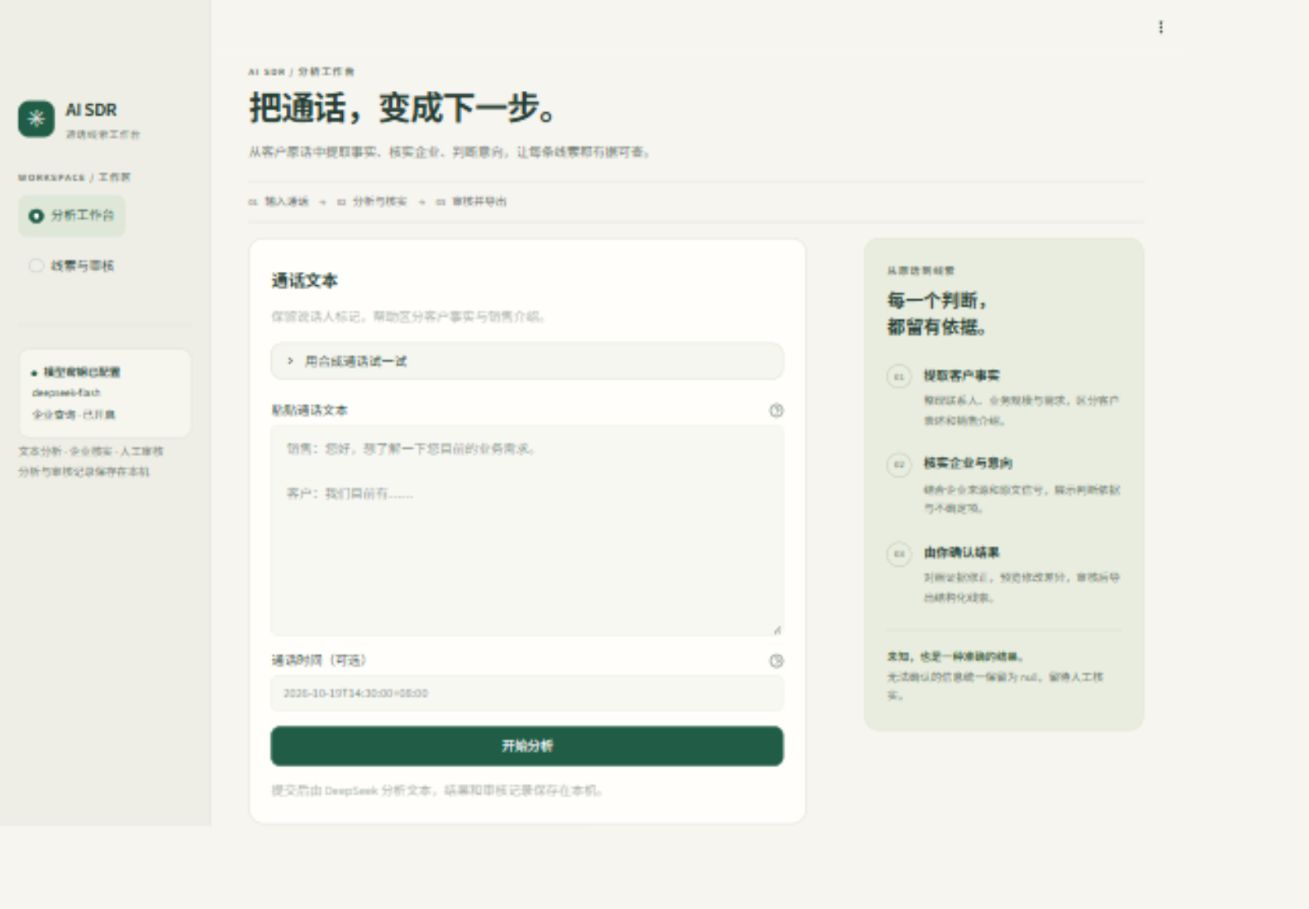
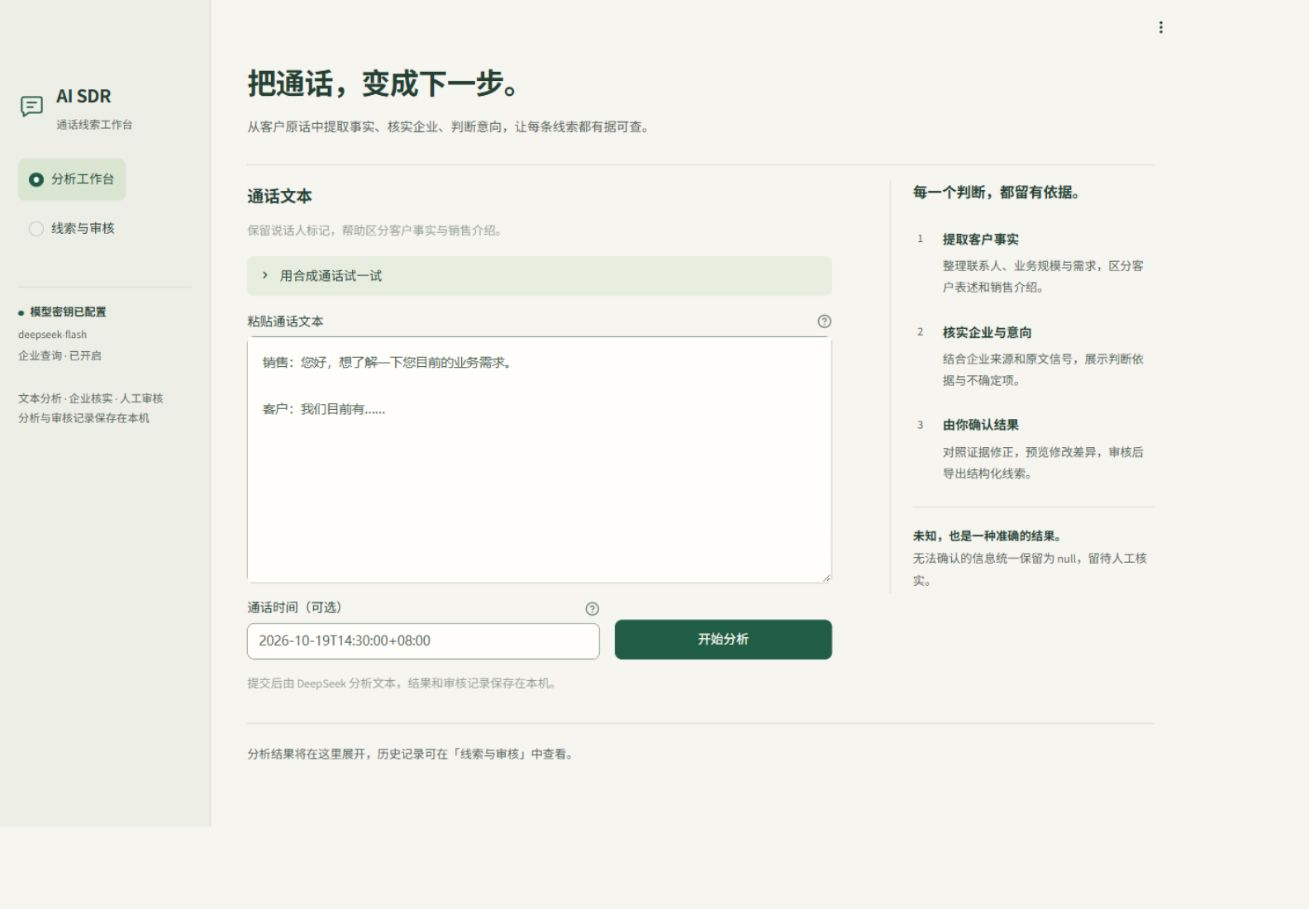
Polish SDR interface with Impeccable guidance

diff --git a/src/sdr_agent/styles.css b/src/sdr_agent/styles.css
@@ -1,128 +1,152 @@
-/* Local, self-contained theme. No external fonts or image requests. */
+/* Operate-mode refinement: local typography, semantic color, quiet surfaces. */
 :root {
-  --sdr-ink: #253c32;
-  --sdr-muted: #6b766e;
+  --sdr-ink: #243e32;
+  --sdr-muted: #526557;
   --sdr-green: #205c46;
-  --sdr-line: #dedfd5;
+  --sdr-hover: #174b38;
+  --sdr-active: #103c2b;
+  --sdr-canvas: #f6f5f0;
+  --sdr-sidebar: #edeee6;
   --sdr-paper: #fffefa;
-  --sdr-sage: #eaf0e5;
+  --sdr-sage: #e7eddf;
+  --sdr-line: #d6dbd0;
+  --sdr-control: #809183;
+  --sdr-radius: 12px;
+  --sdr-font: "Microsoft YaHei UI", "PingFang SC", "Noto Sans CJK SC", sans-serif;
 }
-.stApp { background: #f6f5f0; color: var(--sdr-ink); }
-.block-container { max-width: 1392px; padding: 2.8rem 2.6rem 4rem; }
-[data-testid="stHeader"] { background: #f6f5f0ed; }
+.stApp { background: var(--sdr-canvas); color: var(--sdr-ink); }
+.stApp, .stApp input, .stApp textarea, .stApp button, .stApp select { font-family: var(--sdr-font); }
+.stApp ::selection { background: #cdddc1; color: #173b2b; }
+.stApp input, .stApp textarea { caret-color: var(--sdr-green); }
+.stApp a { text-underline-offset: .2em; }
+.block-container { max-width: 1392px; padding: 3.2rem 2.5rem 3rem; }
+[data-testid="stHeader"] { background: var(--sdr-canvas); }
 [data-testid="stAppDeployButton"] { display: none; }
-h1, h2, h3, h4, h5 { color: var(--sdr-ink); letter-spacing: -.035em; }
-h1 { font-size: clamp(1.65rem, 3vw, 2.3rem) !important; font-weight: 650 !important; }
-h3 { font-size: 1.15rem !important; }
-h5 { font-size: 1rem !important; padding-top: .8rem !important; }
+h1, h2, h3, h4, h5 { color: var(--sdr-ink); font-family: var(--sdr-font); letter-spacing: -.02em; }
+h1 { font-size: 2rem !important; font-weight: 650 !important; }
+h3 { font-size: 1.125rem !important; font-weight: 650 !important; }
+h5 { font-size: 1rem !important; padding-top: 1rem !important; }
 [data-testid="stCaptionContainer"] { color: var(--sdr-muted); }
-[data-testid="stSidebar"] { background: #eeeee6; border-right: 1px solid var(--sdr-line); }
-[data-testid="stSidebarContent"] { padding-top: 1.5rem; }
-[data-testid="stSidebar"] hr { border-color: var(--sdr-line); margin: 1.6rem 0; }
-.brand { display: flex; align-items: center; gap: 12px; padding: 4px 0 12px; }
-.brand-mark { display: grid; place-items: center; width: 40px; height: 40px; background: var(--sdr-green); border-radius: 12px; color: #f3f5e9; font-size: 25px; }
-.brand strong { font-size: 21px; font-weight: 650; letter-spacing: -.03em; }
-.brand small { display: block; margin-top: 2px; color: var(--sdr-muted); font-size: 11px; letter-spacing: .08em; }
-.nav-label, .eyebrow { color: var(--sdr-muted); font-size: 11px; font-weight: 650; letter-spacing: .15em; text-transform: uppercase; }
-.nav-label { margin: 18px 0 10px; }
-[data-testid="stSidebar"] [role="radiogroup"] { gap: 8px; }
-[data-testid="stSidebar"] [role="radiogroup"] label { margin: 0; padding: 12px; border-radius: 10px; transition: background .15s; }
-[data-testid="stSidebar"] [role="radiogroup"] label:has(input:checked) { background: #dfe7d8; color: #174f3a; font-weight: 650; }
-[data-testid="stSidebar"] [role="radiogroup"] label:hover { background: #e4e8dd; }
-.sidebar-note { font-size: 12px; line-height: 1.8; color: var(--sdr-muted); padding-top: 5px; }
-.sidebar-status { padding: 14px; background: #f6f6ef; border: 1px solid var(--sdr-line); border-radius: 12px; font-size: 12px; line-height: 1.9; overflow-wrap: anywhere; }
-.sidebar-status strong { font-weight: 600; }
+[data-testid="stCaptionContainer"] p { font-size: .8125rem; line-height: 1.7; }
+[data-testid="stSidebar"] { background: var(--sdr-sidebar); border-right: 1px solid var(--sdr-line); }
+[data-testid="stSidebarContent"] { padding-top: .5rem; }
+[data-testid="stSidebar"] hr { border-color: var(--sdr-line); margin: 1.5rem 0 1rem; }
+.brand { display: flex; align-items: center; gap: 12px; padding: 4px 0 28px; }
+.brand-mark { color: var(--sdr-green); flex-shrink: 0; }
+.brand strong { font-size: 1.375rem; font-weight: 650; letter-spacing: -.02em; }
+.brand small { display: block; margin-top: 4px; color: var(--sdr-muted); font-size: .75rem; }
+[data-testid="stSidebar"] [role="radiogroup"] { gap: 8px; width: 100%; }
+[data-testid="stSidebar"] [role="radiogroup"] label {
+  margin: 0; padding: 12px; min-height: 44px; width: 100%; box-sizing: border-box;
+  border-radius: 8px; transition: background-color 160ms ease-out;
+}
+[data-testid="stSidebar"] [role="radiogroup"] label:has(input:checked) { background: #dae5d2; color: #214c36; font-weight: 650; }
+[data-testid="stSidebar"] [role="radiogroup"] label:hover { background: #e0e6d8; }
+[data-testid="stSidebar"] [role="radiogroup"] label:focus-within { outline: 2px solid var(--sdr-green); outline-offset: 2px; }
+.sidebar-note { font-size: .75rem; line-height: 1.8; color: var(--sdr-muted); margin-top: 24px; }
+.sidebar-status { font-size: .75rem; line-height: 2; color: var(--sdr-muted); overflow-wrap: anywhere; }
+.sidebar-status strong { color: var(--sdr-ink); font-weight: 600; }
 .status-dot { display: inline-block; width: 6px; height: 6px; margin-right: 7px; border-radius: 50%; background: var(--sdr-green); }
-.page-heading { padding: 9px 0 18px; }
-.page-heading h1 { margin: 9px 0 10px; padding: 0; line-height: 1.35; }
-.page-heading p { margin: 0; color: var(--sdr-muted); font-size: 14px; line-height: 1.8; }
-.workflow-strip { display: flex; align-items: center; gap: 12px; margin: 0 0 18px; padding: 12px 0; border-top: 1px solid var(--sdr-line); border-bottom: 1px solid var(--sdr-line); color: #526556; font-size: 12px; }
-.workflow-strip b { font-size: 10px; color: #7d8978; margin-right: 5px; font-weight: 500; }
-.workflow-strip .arrow { color: #99a48f; }
-[data-testid="stVerticalBlockBorderWrapper"] { border-color: var(--sdr-line); border-radius: 16px; }
-.st-key-input_card { background: var(--sdr-paper); padding: 24px !important; border: 1px solid var(--sdr-line) !important; border-radius: 16px; }
-.st-key-input_card [data-testid="stForm"] { border: 0; padding: 0; }
-.st-key-input_card [data-testid="stExpander"] { margin: 2px 0 6px; }
-.st-key-input_card [data-testid="stExpander"] details { background: #f5f6ef; }
-[data-testid="stTextInput"] input, [data-testid="stTextArea"] textarea { background: #f8f8f3; font-size: 14px; line-height: 1.75; }
-[data-testid="stTextArea"] textarea { padding: 14px 16px; }
-[data-testid="stTextInput"] [data-baseweb="input"], [data-testid="stTextArea"] [data-baseweb="textarea"] { border: 1px solid #dce1d6; border-radius: 10px; }
-[data-testid="stTextInput"] [data-baseweb="input"]:focus-within, [data-testid="stTextArea"] [data-baseweb="textarea"]:focus-within { border-color: var(--sdr-green); box-shadow: 0 0 0 2px #205c4614; }
-[data-testid="stSelectbox"] [data-baseweb="select"] > div { border-radius: 10px; }
-[data-testid="stBaseButton-primary"], [data-testid="stBaseButton-primaryFormSubmit"] { border-radius: 10px; min-height: 44px; background: var(--sdr-green); border-color: var(--sdr-green); font-weight: 600; }
-[data-testid="stBaseButton-secondary"], [data-testid="stBaseButton-secondaryFormSubmit"], [data-testid="stDownloadButton"] button { border-radius: 10px; border-color: var(--sdr-line); background: var(--sdr-paper); }
-button:focus-visible, a:focus-visible { outline: 3px solid #8cae86 !important; outline-offset: 3px; }
-.guide-card { border-radius: 16px; padding: 26px 24px; background: #e9eddf; border: 1px solid #dce3d2; }
-.guide-card h3 { margin: 9px 0 24px; padding: 0; font-size: 20px !important; line-height: 1.5; }
-.guide-step { display: flex; gap: 13px; margin-bottom: 24px; }
-.step-number { color: #52734e; border: 1px solid #b9c7ad; border-radius: 50%; width: 27px; height: 27px; flex-shrink: 0; display: grid; place-items: center; font-size: 11px; margin-top: 1px; }
-.guide-step strong { font-size: 14px; font-weight: 600; }
-.guide-step p { color: #63715d; font-size: 12px; line-height: 1.8; margin: 5px 0 0; }
-.guide-note { margin-top: 6px; padding-top: 18px; border-top: 1px solid #cfd9c4; color: #60705b; font-size: 12px; line-height: 1.8; }
-.guide-note strong { color: #3e5e3c; }
-.empty-note { text-align: center; color: var(--sdr-muted); font-size: 12px; padding: 26px 12px; }
-.empty-note span { color: var(--sdr-green); margin-right: 7px; }
-[data-testid="stMetric"] { background: var(--sdr-paper); border: 1px solid var(--sdr-line); padding: 18px 22px; border-radius: 14px; }
+.page-heading { padding: 4px 0 28px; margin-bottom: 12px; border-bottom: 1px solid var(--sdr-line); }
+.page-heading h1 { margin: 0 0 12px; padding: 0; line-height: 1.4; text-wrap: balance; }
+.page-heading p { margin: 0; color: var(--sdr-muted); font-size: .875rem; line-height: 1.8; max-width: 70ch; }
+[data-testid="stVerticalBlockBorderWrapper"] { border-color: var(--sdr-line); border-radius: var(--sdr-radius); }
+.st-key-workbench_layout { container: sdr-workbench / inline-size; }
+.st-key-input_card { padding: 0 !important; }
+.st-key-input_card [data-testid="stForm"] { border: 0; padding: 0; background: transparent; }
+.st-key-input_card [data-testid="stExpander"] details { border: 0; background: var(--sdr-sage); }
+.st-key-input_card [data-testid="stExpander"] summary { min-height: 44px; }
+[data-testid="stTextInput"] input, [data-testid="stTextArea"] textarea { background: var(--sdr-paper); color: var(--sdr-ink); font-size: .875rem; line-height: 1.8; }
+[data-testid="stTextArea"] textarea { padding: 16px; }
+[data-testid="stTextInput"] input::placeholder, [data-testid="stTextArea"] textarea::placeholder { color: var(--sdr-muted); opacity: 1; }
+[data-testid="stTextInputRootElement"], [data-testid="stTextArea"] > div:has(> textarea) { border: 1px solid var(--sdr-control); border-radius: 8px; background: var(--sdr-paper); }
+[data-testid="stTextInputRootElement"]:focus-within,
+[data-testid="stTextArea"] > div:has(> textarea):focus-within { outline: 2px solid var(--sdr-green); outline-offset: 2px; border-color: var(--sdr-green); }
+[data-testid="stSelectbox"] [role="group"]:has(> [role="combobox"]) { border: 1px solid var(--sdr-control); border-radius: 8px; background: var(--sdr-paper); }
+[data-testid="stSelectbox"] [role="group"]:has(> [role="combobox"]):focus-within { outline: 2px solid var(--sdr-green); outline-offset: 2px; border-radius: 8px; }
+[data-testid="stBaseButton-primary"], [data-testid="stBaseButton-primaryFormSubmit"] {
+  border-radius: 8px; min-height: 44px; background: var(--sdr-green); border-color: var(--sdr-green);
+  color: var(--sdr-paper); font-weight: 600; transition: background-color 160ms ease-out;
+}
+[data-testid="stBaseButton-primary"]:hover:not(:disabled), [data-testid="stBaseButton-primaryFormSubmit"]:hover:not(:disabled) { background: var(--sdr-hover); border-color: var(--sdr-hover); color: var(--sdr-paper); }
+[data-testid="stBaseButton-primary"]:active:not(:disabled), [data-testid="stBaseButton-primaryFormSubmit"]:active:not(:disabled) { background: var(--sdr-active); border-color: var(--sdr-active); }
+[data-testid="stBaseButton-primary"]:disabled, [data-testid="stBaseButton-primaryFormSubmit"]:disabled { background: #e0e5da; border-color: #c6cebf; color: #5a695b; opacity: 1; cursor: not-allowed; }
+[data-testid="stBaseButton-secondary"], [data-testid="stBaseButton-secondaryFormSubmit"], [data-testid="stDownloadButton"] button {
+  border-radius: 8px; min-height: 44px; border-color: var(--sdr-control); color: var(--sdr-green); background: var(--sdr-paper);
+  transition: background-color 160ms ease-out;
+}
+[data-testid="stBaseButton-secondary"]:hover:not(:disabled), [data-testid="stBaseButton-secondaryFormSubmit"]:hover:not(:disabled),
+[data-testid="stDownloadButton"] button:hover:not(:disabled) { background: var(--sdr-sage); border-color: var(--sdr-green); }
+button:focus-visible, a:focus-visible, summary:focus-visible { outline: 2px solid var(--sdr-green) !important; outline-offset: 3px; }
+.guide-card { padding: 0 0 0 24px; margin-top: 5px; border-left: 1px solid var(--sdr-line); container: sdr-guide / inline-size; }
+.guide-card h3 { margin: 0 0 24px; padding: 0; font-size: 1rem !important; line-height: 1.7; }
+.guide-steps { list-style: none; margin: 0 !important; padding: 0 !important; }
+.guide-step { display: flex; gap: 12px; margin: 0 0 24px !important; }
+.step-number { color: var(--sdr-muted); width: 16px; flex-shrink: 0; font-size: .8125rem; line-height: 1.9; font-variant-numeric: tabular-nums; }
+.guide-step strong { font-size: .875rem; font-weight: 600; }
+.guide-step p { color: var(--sdr-muted); font-size: .8125rem; line-height: 1.8; margin: 6px 0 0; overflow-wrap: anywhere; }
+.guide-note { padding-top: 20px; border-top: 1px solid var(--sdr-line); color: var(--sdr-muted); font-size: .8125rem; line-height: 1.9; }
+.guide-note strong { color: var(--sdr-ink); font-weight: 600; }
+.empty-note { color: var(--sdr-muted); font-size: .8125rem; padding: 24px 0 0; border-top: 1px solid var(--sdr-line); margin-top: 16px; }
+.st-key-history_stats { padding: 8px 0 20px; border-bottom: 1px solid var(--sdr-line); margin-bottom: 10px; }
+[data-testid="stMetric"] { padding: 0 20px 0 0; }
 [data-testid="stMetricLabel"] { color: var(--sdr-muted); }
-[data-testid="stMetricValue"] { font-size: 2rem; font-weight: 600; }
-.lead-overview { display: grid; grid-template-columns: minmax(0, 2fr) minmax(100px, 1fr) minmax(100px, 1fr); gap: 12px; margin: 6px 0 12px; }
-.lead-stat { border: 1px solid var(--sdr-line); border-radius: 14px; padding: 20px; background: var(--sdr-paper); min-width: 0; }
-.lead-stat:first-child { background: #eaf0e3; border-color: #d8e2cd; }
-.lead-stat span { color: var(--sdr-muted); font-size: 12px; }
-.lead-stat strong { display: block; font-size: 22px; font-weight: 600; line-height: 1.5; margin-top: 8px; overflow-wrap: anywhere; }
-.lead-stat:first-child strong { font-size: 19px; }
-.lead-stat small { display: block; color: var(--sdr-muted); font-size: 11px; margin-top: 8px; }
-.detail-grid { display: grid; grid-template-columns: 1.3fr 1fr; gap: 16px; margin: 18px 0 16px; }
-.detail-card { background: var(--sdr-paper); border: 1px solid var(--sdr-line); border-radius: 14px; padding: 22px; min-width: 0; }
-.detail-card h4 { font-size: 14px; font-weight: 650; margin: 0 0 16px; padding: 0; }
-.detail-card dl { display: grid; grid-template-columns: 86px minmax(0, 1fr); gap: 14px 12px; margin: 0; font-size: 13px; line-height: 1.8; }
+[data-testid="stMetricValue"] { font-size: 1.75rem; font-weight: 600; font-variant-numeric: tabular-nums; }
+.lead-overview { display: grid; grid-template-columns: minmax(0, 2fr) minmax(115px, 1fr) minmax(135px, 1fr); gap: 24px; margin: 0 0 12px; padding: 12px 0 24px; border-bottom: 1px solid var(--sdr-line); }
+.lead-stat { min-width: 0; }
+.lead-stat span { color: var(--sdr-muted); font-size: .8125rem; }
+.lead-stat strong { display: block; font-size: 1.375rem; font-weight: 600; line-height: 1.55; margin-top: 10px; overflow-wrap: anywhere; font-variant-numeric: tabular-nums; }
+.lead-stat small { display: block; color: var(--sdr-muted); font-size: .75rem; line-height: 1.7; margin-top: 8px; }
+.detail-grid { display: grid; grid-template-columns: 1.3fr 1fr; column-gap: 40px; margin: 12px 0 24px; }
+.detail-card { padding: 20px 0 24px; border-bottom: 1px solid var(--sdr-line); min-width: 0; }
+.detail-card h4 { font-size: .875rem; font-weight: 650; margin: 0 0 18px; padding: 0; }
+.detail-card dl { display: grid; grid-template-columns: 86px minmax(0, 1fr); gap: 14px 12px; margin: 0; font-size: .875rem; line-height: 1.8; }
 .detail-card dt { color: var(--sdr-muted); font-weight: 400; }
 .detail-card dd { margin: 0; overflow-wrap: anywhere; white-space: pre-wrap; }
-.detail-card p { font-size: 14px; line-height: 1.9; margin: 0; white-space: pre-wrap; overflow-wrap: anywhere; }
+.detail-card p { font-size: .875rem; line-height: 1.9; margin: 0; white-space: pre-wrap; overflow-wrap: anywhere; max-width: 72ch; }
 .detail-card.full { grid-column: 1 / -1; }
-.detail-card.action { background: #edf2e7; border-color: #d7e0ce; }
-.evidence-quote { border-left: 3px solid #a6ba92; padding: 12px 16px; margin: 8px 0 18px; background: #f0f2e9; border-radius: 0 10px 10px 0; }
-.evidence-quote small { color: var(--sdr-muted); font-size: 11px; }
-.evidence-quote p { margin: 6px 0 0; font-size: 14px; line-height: 1.8; white-space: pre-wrap; overflow-wrap: anywhere; }
-[data-testid="stTabs"] [role="tablist"] { gap: 22px; border-bottom: 1px solid var(--sdr-line); }
-[data-testid="stTabs"] [role="tab"] { padding: 14px 0; }
+.detail-card.action { background: var(--sdr-sage); border: 0; border-radius: var(--sdr-radius); padding: 20px; margin-top: 24px; }
+.evidence-quote { padding: 16px 20px; margin: 12px 0 20px; background: var(--sdr-sage); border: 0; border-radius: var(--sdr-radius); }
+.evidence-quote small { color: var(--sdr-muted); font-size: .75rem; }
+.evidence-quote p { margin: 8px 0 0; font-size: .875rem; line-height: 1.9; white-space: pre-wrap; overflow-wrap: anywhere; max-width: 72ch; }
+[data-testid="stTabs"] [role="tablist"] { gap: 24px; border-bottom: 1px solid var(--sdr-line); }
+[data-testid="stTabs"] [role="tab"] { padding: 12px 0; min-height: 44px; }
 [data-testid="stTabs"] [aria-selected="true"] { font-weight: 650; color: var(--sdr-green); }
-[data-testid="stExpander"] details { border-radius: 12px; border-color: var(--sdr-line); background: #ffffff50; }
-[data-testid="stForm"] { border-radius: 14px; border-color: var(--sdr-line); background: var(--sdr-paper); }
-[data-testid="stAlert"] { border-radius: 12px; }
-[data-testid="stDataFrame"] { border-radius: 12px; overflow: hidden; }
-@media (min-width: 1101px) {
+[data-testid="stExpander"] details { border-radius: 8px; border-color: var(--sdr-line); background: transparent; }
+[data-testid="stExpander"] summary { min-height: 44px; }
+[data-testid="stForm"] { border-radius: var(--sdr-radius); border-color: var(--sdr-line); background: var(--sdr-paper); padding: 24px; }
+[data-testid="stAlert"] { border-radius: 8px; }
+[data-testid="stDataFrame"] { border-radius: 8px; overflow: hidden; }
+@media (min-width: 768px) {
   [data-testid="stSidebar"] { min-width: 232px !important; max-width: 232px !important; }
 }
-@media (max-width: 1100px) {
-  .st-key-workbench_layout > [data-testid="stHorizontalBlock"] { flex-wrap: wrap; gap: 24px; }
-  .st-key-workbench_layout > [data-testid="stHorizontalBlock"] > [data-testid="stColumn"] { width: 100% !important; flex: 1 1 100% !important; }
-  .guide-card { padding: 22px; }
-  .guide-card h3 { margin-bottom: 18px; }
-  .guide-steps { display: grid; grid-template-columns: repeat(3, 1fr); gap: 16px; }
-  .guide-step { margin: 0; }
-  .guide-note { margin-top: 20px; }
+/* Container width, not viewport width: the open sidebar changes usable space.
+   Streamlit 1.66 inserts stLayoutWrapper between the keyed block and columns. */
+@container sdr-workbench (max-width: 820px) {
+  .st-key-workbench_layout > [data-testid="stLayoutWrapper"] > [data-testid="stHorizontalBlock"] { flex-wrap: wrap; gap: 32px; }
+  .st-key-workbench_layout > [data-testid="stLayoutWrapper"] > [data-testid="stHorizontalBlock"] > [data-testid="stColumn"] { width: 100% !important; flex: 1 1 100% !important; min-width: 0 !important; }
+  .guide-card { padding: 24px 0 0; margin: 0; border-left: 0; border-top: 1px solid var(--sdr-line); }
+}
+@container sdr-guide (min-width: 580px) {
+  .guide-steps { display: grid; grid-template-columns: repeat(3, minmax(0, 1fr)); gap: 24px; }
+  .guide-step { margin-bottom: 20px !important; }
 }
 @media (max-width: 700px) {
-  .block-container { padding: 2.6rem 1rem 2rem; }
-  .page-heading { padding-bottom: 10px; }
-  .page-heading p { font-size: 13px; }
-  .st-key-input_card { padding: 18px !important; }
-  .workflow-strip { gap: 8px; font-size: 11px; flex-wrap: wrap; }
-  .lead-overview { grid-template-columns: repeat(2, minmax(0, 1fr)); }
+  .block-container { padding: 3rem 1.25rem 2rem; }
+  h1 { font-size: 1.625rem !important; }
+  .page-heading { padding-bottom: 24px; margin-bottom: 8px; }
+  .lead-overview { grid-template-columns: repeat(2, minmax(0, 1fr)); gap: 24px; }
   .lead-stat:first-child { grid-column: 1 / -1; }
-  .lead-stat { padding: 16px; }
   .detail-grid { grid-template-columns: 1fr; }
-  .detail-card { padding: 18px; }
-  .guide-steps { grid-template-columns: 1fr; gap: 18px; }
-  [data-testid="stMetric"] { padding: 14px; }
-  .st-key-history_stats [data-testid="stHorizontalBlock"] { gap: 10px; flex-wrap: nowrap; }
+  .st-key-history_stats [data-testid="stHorizontalBlock"] { gap: 12px; flex-wrap: nowrap; }
   .st-key-history_stats [data-testid="stColumn"] { min-width: 0; flex: 1 1 0; }
-  .st-key-history_stats [data-testid="stMetricLabel"] p { font-size: 12px; }
-  [data-testid="stTabs"] [role="tablist"] { gap: 18px; }
+  .st-key-history_stats [data-testid="stMetricLabel"] p { font-size: .75rem; }
+  [data-testid="stMetric"] { padding: 0; }
+  [data-testid="stTabs"] [role="tablist"] { gap: 20px; }
+  [data-testid="stForm"] { padding: 18px; }
 }
-@media (min-width: 480px) and (max-width: 700px) {
-  .st-key-history_filters [data-testid="stHorizontalBlock"] { gap: 10px; flex-wrap: nowrap; }
+@media (min-width: 540px) and (max-width: 700px) {
+  .st-key-history_filters [data-testid="stHorizontalBlock"] { gap: 12px; flex-wrap: nowrap; }
   .st-key-history_filters [data-testid="stColumn"] { min-width: 0; flex: 1 1 0; }
 }
 @media (prefers-reduced-motion: reduce) {

diff --git a/src/sdr_agent/ui.py b/src/sdr_agent/ui.py
@@ -73,10 +73,9 @@ def shown(value):
     return "未知 / null" if value is None else str(value)
 
 
-def page_heading(eyebrow, title, description):
+def page_heading(title, description):
     st.markdown(
-        f'<div class="page-heading"><div class="eyebrow">{escape(eyebrow)}</div>'
-        f"<h1>{escape(title)}</h1><p>{escape(description)}</p></div>",
+        f'<div class="page-heading"><h1>{escape(title)}</h1><p>{escape(description)}</p></div>',
         unsafe_allow_html=True,
     )
 
@@ -511,18 +510,12 @@ def render_run(repo, run):
 
 def workbench(settings, repo):
     page_heading(
-        "AI SDR / 分析工作台",
         "把通话，变成下一步。",
         "从客户原话中提取事实、核实企业、判断意向，让每条线索都有据可查。",
     )
-    st.markdown(
-        '<div class="workflow-strip"><span><b>01</b> 输入通话</span><span class="arrow">→</span>'
-        '<span><b>02</b> 分析与核实</span><span class="arrow">→</span><span><b>03</b> 审核并导出</span></div>',
-        unsafe_allow_html=True,
-    )
     with st.container(key="workbench_layout"):
-        input_col, guide_col = st.columns([1.9, 1], gap="large")
-        with input_col, st.container(key="input_card", border=True):
+        input_col, guide_col = st.columns([2.1, 1], gap="large")
+        with input_col, st.container(key="input_card", border=False):
             st.subheader("通话文本", anchor=False)
             st.caption("保留说话人标记，帮助区分客户事实与销售介绍。")
             examples_path = Path(__file__).resolve().parents[2] / "examples" / "transcripts.jsonl"
@@ -545,30 +538,32 @@ def workbench(settings, repo):
                 text = st.text_area(
                     "粘贴通话文本",
                     key="text",
-                    height=260,
+                    height=300,
                     max_chars=20000,
                     placeholder="销售：您好，想了解一下您目前的业务需求。\n\n客户：我们目前有……",
                     help="建议保留客户与销售的说话人标记，最多 20,000 字。",
                 )
-                call_time = st.text_input(
+                time_col, action_col = st.columns([1.6, 1], vertical_alignment="bottom")
+                call_time = time_col.text_input(
                     "通话时间（可选）",
                     placeholder="2026-10-19T14:30:00+08:00",
                     help="使用带时区的 ISO 8601 时间；未知时留空。",
                 )
-                submitted = st.form_submit_button(
-                    "开始分析", type="primary", disabled=not settings.api_key, width="stretch"
-                )
+                with action_col:
+                    submitted = st.form_submit_button(
+                        "开始分析", type="primary", disabled=not settings.api_key, width="stretch"
+                    )
             st.caption("提交后由 DeepSeek 分析文本，结果和审核记录保存在本机。")
         with guide_col:
             st.markdown(
-                '<aside class="guide-card"><div class="eyebrow">从原话到线索</div>'
-                '<h3>每一个判断，<br>都留有依据。</h3><div class="guide-steps">'
-                '<div class="guide-step"><span class="step-number">01</span><div><strong>提取客户事实</strong>'
-                "<p>整理联系人、业务规模与需求，区分客户表述和销售介绍。</p></div></div>"
-                '<div class="guide-step"><span class="step-number">02</span><div><strong>核实企业与意向</strong>'
-                "<p>结合企业来源和原文信号，展示判断依据与不确定项。</p></div></div>"
-                '<div class="guide-step"><span class="step-number">03</span><div><strong>由你确认结果</strong>'
-                "<p>对照证据修正，预览修改差异，审核后导出结构化线索。</p></div></div></div>"
+                '<aside class="guide-card" aria-label="分析流程说明">'
+                '<h3>每一个判断，都留有依据。</h3><ol class="guide-steps" role="list">'
+                '<li class="guide-step"><span class="step-number" aria-hidden="true">1</span><div><strong>提取客户事实</strong>'
+                "<p>整理联系人、业务规模与需求，区分客户表述和销售介绍。</p></div></li>"
+                '<li class="guide-step"><span class="step-number" aria-hidden="true">2</span><div><strong>核实企业与意向</strong>'
+                "<p>结合企业来源和原文信号，展示判断依据与不确定项。</p></div></li>"
+                '<li class="guide-step"><span class="step-number" aria-hidden="true">3</span><div><strong>由你确认结果</strong>'
+                "<p>对照证据修正，预览修改差异，审核后导出结构化线索。</p></div></li></ol>"
                 '<div class="guide-note"><strong>未知，也是一种准确的结果。</strong><br>'
                 "无法确认的信息统一保留为 null，留待人工核实。</div></aside>",
                 unsafe_allow_html=True,
@@ -602,7 +597,7 @@ def workbench(settings, repo):
             st.info("上次结果已不在当前数据库中，请前往线索与审核查看现有记录。")
     else:
         st.markdown(
-            '<div class="empty-note"><span>✳</span> 分析结果将在这里展开，历史记录可在「线索与审核」中查看。</div>',
+            '<div class="empty-note">分析结果将在这里展开，历史记录可在「线索与审核」中查看。</div>',
             unsafe_allow_html=True,
         )
 
@@ -678,9 +673,7 @@ def batch_form(repo, runs):
 
 
 def history_page(repo):
-    page_heading(
-        "AI SDR / 线索管理", "线索与审核", "集中查看分析结果，对照证据确认信息，保留每一次修正。"
-    )
+    page_heading("线索与审核", "集中查看分析结果，对照证据确认信息，保留每一次修正。")
     runs = repo.list_runs()
     with st.container(key="history_stats"):
         cols = st.columns(3)
@@ -757,8 +750,11 @@ def main():
         return
     with st.sidebar:
         st.markdown(
-            '<div class="brand"><span class="brand-mark">✳</span><div><strong>AI SDR</strong>'
-            '<small>通话线索工作台</small></div></div><div class="nav-label">WORKSPACE / 工作区</div>',
+            '<div class="brand"><svg class="brand-mark" width="30" height="30" viewBox="0 0 30 30" '
+            'fill="none" stroke="currentColor" stroke-width="1.8" stroke-linecap="round" stroke-linejoin="round" '
+            'aria-hidden="true"><path d="M6 5h18a2 2 0 0 1 2 2v13a2 2 0 0 1-2 2H12l-6 4v-4a2 2 0 0 1-2-2V7a2 2 0 0 1 2-2Z"/>'
+            '<path d="M10 11h10M10 16h6"/></svg><div><strong>AI SDR</strong>'
+            "<small>通话线索工作台</small></div></div>",
             unsafe_allow_html=True,
         )
         page = st.radio("工作区", ["分析工作台", "线索与审核"], label_visibility="collapsed")
